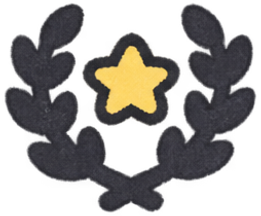
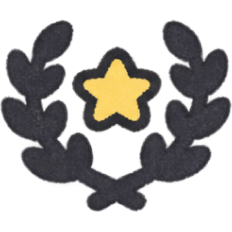
design: 홈 스티커 변경 및 히어로 화면 높이 조정

diff --git a/components/home/StickerBoard.js b/components/home/StickerBoard.js
@@ -7,9 +7,9 @@ import TextLink from "@/components/ui/TextLink";
 import SectionHeader from "./SectionHeader";
 import { homeStickerHref } from "@/lib/homeViewModel";
 
-// 스티커 한 칸(Figma 'Sticker'): 그림 88px + 아래 이름 12px. 상태는 받음(earned·milestone), 이번 주(current), 빈 자리(upcoming).
-const ITEM_CLASSES = "flex w-full flex-col items-center gap-2";
-const ICON_SIZE_CLASSES = "size-[60px] md:size-[88px]";
+// Figma Sticker: 셀 80px, 아이콘 영역 56px, 그림 52px, 라벨 간격 4px.
+const ITEM_CLASSES = "flex size-20 flex-col items-center gap-1";
+const ICON_SIZE_CLASSES = "size-14";
 
 // 스티커별 이동 경로와 화면 낭독기용 이름이다. 중커톤처럼 아직 받지 않은 스티커는 누를 수 없다.
 function getStickerLink({ kind, week, title }) {
@@ -25,20 +25,14 @@ function getStickerLink({ kind, week, title }) {
 }
 
 function StickerIcon({ sticker }) {
-  const { kind, title, image, shape, color } = sticker;
+  const { kind, image, shape, color } = sticker;
+  const isProject = sticker.type ? sticker.type === "project" : ["milestone", "upcoming"].includes(kind);
 
-  if (kind === "current") {
+  if (["current", "upcoming"].includes(kind)) {
+    const state = kind === "current" ? "current" : "empty";
     return (
       <span className={`flex items-center justify-center ${ICON_SIZE_CLASSES}`}>
-        <Image src="/images/home/sticker-current.svg" alt="" width={79.3} height={79.3} className="size-[90%]" />
-      </span>
-    );
-  }
-
-  if (kind === "upcoming") {
-    return (
-      <span className={`flex items-center justify-center ${ICON_SIZE_CLASSES}`}>
-        <Image src="/images/home/sticker-empty.svg" alt={`${title} 예정`} width={79.3} height={79.3} className="size-[90%]" />
+        <Image src={`/images/home/sticker-${state}${isProject ? "-project" : ""}.svg`} alt="" width={54.0839} height={54.0839} />
       </span>
     );
   }
@@ -46,20 +40,20 @@ function StickerIcon({ sticker }) {
   // 받은 스티커는 디자인 시스템 스티커 그림이다. 그림을 정하지 못한 스티커만 도형으로 보여 준다.
   if (image) {
     return (
-      <span className={`relative flex items-center justify-center ${ICON_SIZE_CLASSES}`}>
-        <Image src={image} alt="" fill sizes="(min-width: 768px) 82px, 56px" className="object-contain p-[4%]" />
+      <span className={`flex items-center justify-center ${ICON_SIZE_CLASSES}`}>
+        <Image src={image} alt="" width={52} height={52} className="size-[52px] object-contain" />
       </span>
     );
   }
 
-  return <ShapeCharacter shape={shape} color={color} sticker className={ICON_SIZE_CLASSES} />;
+  return <span className={`flex items-center justify-center ${ICON_SIZE_CLASSES}`}><ShapeCharacter shape={shape} color={color} sticker size={52} /></span>;
 }
 
 function Sticker({ sticker }) {
   const content = (
     <>
       <StickerIcon sticker={sticker} />
-      <span className={`text-caption leading-[18px] ${["milestone", "upcoming"].includes(sticker.kind) ? "text-yellow-700" : "text-ink-subtle"}`}>
+      <span className={`h-[18px] w-20 text-center text-caption leading-[18px] ${["milestone", "upcoming"].includes(sticker.kind) ? "text-yellow-700" : "text-ink-subtle"}`}>
         {sticker.label}
       </span>
     </>
@@ -68,7 +62,7 @@ function Sticker({ sticker }) {
   const link = getStickerLink(sticker);
 
   if (!link) {
-    return <div className={ITEM_CLASSES}>{content}</div>;
+    return <div className={ITEM_CLASSES} aria-label={`${sticker.title} 예정`}>{content}</div>;
   }
 
   return (
@@ -83,24 +77,27 @@ export default function StickerBoard({ count, stickers }) {
     <Card as="section" className="relative flex min-w-0 flex-col items-center gap-4 p-6! lg:min-h-[550px]">
       <DrawnBorder variant="sticker-board" />
       <SectionHeader
+        titleSize="lg"
         title={
           <>
-            <span className="text-[24px]">모은 스티커 <span className="text-yellow-700">{count}</span></span>
+            모은 스티커 <span className="text-yellow-700">{count}</span>
           </>
         }
         action={
-          <TextLink variant="border" size="sm" href="/my-record?tab=footprints">
+          <TextLink variant="border" href="/my-record?tab=footprints">
             사자 발자국 →
           </TextLink>
         }
       />
-      <ul className="grid w-full max-w-[618px] flex-1 grid-cols-3 content-center gap-x-2 gap-y-8 py-8 sm:grid-cols-5 sm:gap-x-3 md:gap-y-12">
-        {stickers.map((sticker) => (
-          <li key={`${sticker.kind}:${sticker.week}`}>
-            <Sticker sticker={sticker} />
-          </li>
-        ))}
-      </ul>
+      <div className="flex w-full flex-1 items-center justify-center py-8">
+        <ul className="flex w-full max-w-[544px] flex-wrap justify-center gap-x-4 gap-y-[34px] sm:gap-x-9">
+          {stickers.map((sticker) => (
+            <li key={`${sticker.kind}:${sticker.week}`}>
+              <Sticker sticker={sticker} />
+            </li>
+          ))}
+        </ul>
+      </div>
     </Card>
   );
 }

diff --git a/components/project/NewProjectForm.js b/components/project/NewProjectForm.js
@@ -42,8 +42,8 @@ export default function NewProjectForm({ titleId, onCancel, onCreate, busy = fal
   }
 
   return (
-    <form noValidate onSubmit={handleSubmit} className="new-project-form flex flex-col gap-5">
-      <div className="mb-1 flex items-center gap-3.5">
+    <form noValidate onSubmit={handleSubmit} className="new-project-form flex flex-col gap-6">
+      <div className="flex items-center gap-3.5">
         <Image src="/images/stars/star-03.png" alt="" width={44} height={44} className="shrink-0" />
         <div className="flex min-w-0 flex-col gap-0.5">
           <h2 id={titleId} className="font-display text-[24px] leading-[34px] tracking-[-0.48px]">
@@ -52,37 +52,39 @@ export default function NewProjectForm({ titleId, onCancel, onCreate, busy = fal
           <p className="text-body leading-6 text-ink-subtle">이름과 역할만 정해요. 나머지는 진행하면서 기록으로 채워요.</p>
         </div>
       </div>
-      <TextField
-        label="프로젝트 이름"
-        name="name"
-        placeholder="예) 아이디어톤"
-        required
-        error={nameError}
-        onChange={(event) => { if (event.target.value.trim()) setNameError(""); }}
-      />
-      <TextField
-        label="부제목 (선택)"
-        name="subtitle"
-        placeholder="예) 캠퍼스 중고마켓"
-      />
-      <div role="group" aria-labelledby="new-project-role" className="flex flex-col gap-2">
-        <span id="new-project-role" className="text-label leading-[21px] font-bold text-ink-subtle">
-          내 역할 (여러 개 가능)
-        </span>
-        <div className="flex flex-wrap gap-1.5">
-          {PROJECT_ROLES.map((item) => (
-            <Chip key={item} className="border-[1.5px]" selected={roles.includes(item)} onClick={() => toggleRole(item)}>
-              {item}
-            </Chip>
-          ))}
+      <div className="new-project-fields flex flex-col gap-5">
+        <TextField
+          label="프로젝트 이름"
+          name="name"
+          placeholder="예) 아이디어톤"
+          required
+          error={nameError}
+          onChange={(event) => { if (event.target.value.trim()) setNameError(""); }}
+        />
+        <TextField
+          label="부제목 (선택)"
+          name="subtitle"
+          placeholder="예) 캠퍼스 중고마켓"
+        />
+        <div role="group" aria-labelledby="new-project-role" className="flex flex-col gap-2">
+          <span id="new-project-role" className="text-label leading-[21px] font-bold text-ink-subtle">
+            내 역할 (여러 개 가능)
+          </span>
+          <div className="flex min-h-[39px] flex-wrap items-center gap-1.5">
+            {PROJECT_ROLES.map((item) => (
+              <Chip key={item} className="border-[1.5px]" selected={roles.includes(item)} onClick={() => toggleRole(item)}>
+                {item}
+              </Chip>
+            ))}
+          </div>
+          {roleError && (
+            <p role="alert" className="pt-0.5 text-label text-tint-red-ink">
+              {roleError}
+            </p>
+          )}
         </div>
-        {roleError && (
-          <p role="alert" className="pt-0.5 text-label text-tint-red-ink">
-            {roleError}
-          </p>
-        )}
       </div>
-      <div className="mt-1 flex items-center justify-between gap-3.5 pt-2">
+      <div className="flex items-center justify-between gap-3.5 pt-2">
         <TextLink variant="underline" className="font-display text-ink" onClick={onCancel}>취소</TextLink>
         <Button type="submit" className="h-[46px]! border-2! border-ink! bg-ink! px-6! text-white!">{busy ? "만드는 중…" : "만들기"}</Button>
       </div>

diff --git a/lib/homeViewModel.js b/lib/homeViewModel.js
@@ -13,7 +13,7 @@ export const HOME_HERO_CONTENT = {
 
 export function homeStickers(home) {
   // 획득 여부는 서버 응답만 사용한다. 고정 목록으로 걸러 중복 enum과 미지원 enum을 안전하게 처리한다.
-  // image: 스티커 그림(디자인 시스템 '스티커'). 주차는 8종이 돌아가며, 프로젝트는 전용 스티커다(stickerBadges.js).
+  // 일반 주차는 밝은 별 5종을 순환하고, 프로젝트는 전용 스티커다(stickerBadges.js).
   const projectStickers = PROJECT_STICKERS.filter((item) => home.stickers.projectStickers.includes(item.code))
     .map((item) => ({ ...item, image: projectBadgeImage(item.code) }));
   const projectWeeks = new Set(projectStickers.map((item) => item.week));
@@ -22,18 +22,18 @@ export function homeStickers(home) {
     return { week, kind: "earned", label: `${week}주차`, title: `${week}주차`, image: weekBadgeImage(week),
       shape: decoration?.shape ?? "circle", color: decoration?.color ?? "blue" };
   });
-  // 기존 보드 규칙을 재사용한다: 프로젝트를 우선 포함한 획득 스티커 총 10개, 주차 오름차순.
-  const stickers = selectBoardStickers([...weekStickers, ...projectStickers]);
+  const slots = [];
   if (home.stickers.showThisWeekSlot) {
-    stickers.push({ week: home.currentWeek.weekNumber, kind: "current", label: String(home.currentWeek.weekNumber) });
+    const section = FOOTPRINT_SECTIONS.find(({ startWeek, endWeek }) => home.currentWeek.weekNumber >= startWeek && home.currentWeek.weekNumber <= endWeek);
+    slots.push({ week: home.currentWeek.weekNumber, kind: "current", label: `${home.currentWeek.weekNumber}주차`, type: section?.isProject ? "project" : "retrospective" });
   }
-  // 빈 자리·예정 자리는 획득 스티커 10개 제한과 별개다.
   const nextProject = FOOTPRINT_SECTIONS.find((section) => section.isProject && section.endWeek >= home.currentWeek.weekNumber);
-  if (nextProject && !stickers.some((item) => item.week === nextProject.endWeek)) {
-    stickers.push({ week: nextProject.endWeek, kind: "upcoming", label: nextProject.label, title: nextProject.label });
+  if (nextProject && ![...weekStickers, ...projectStickers, ...slots].some((item) => item.week === nextProject.endWeek)) {
+    slots.push({ week: nextProject.endWeek, kind: "upcoming", label: nextProject.label, title: nextProject.label });
   }
-  // 동료의 HomeContent와 동일하게 빈 자리까지 합친 최종 목록을 주차순으로 배치한다.
-  return stickers.toSorted((a, b) => a.week - b.week);
+  // 이번 주·예정 자리까지 최대 10칸. 기존 프로젝트 우선 선택과 주차순 정렬은 유지한다.
+  const stickers = selectBoardStickers([...weekStickers, ...projectStickers], 10 - slots.length);
+  return [...stickers, ...slots].toSorted((a, b) => a.week - b.week);
 }
 
 export function homeStickerHref({ kind, week }) {

diff --git a/app/globals.css b/app/globals.css
@@ -138,12 +138,8 @@ body {
 
 /* 히어로 장식 배치에만 화면별 좌표를 쓴다. */
 .home-hero {
-  height: clamp(640px, calc(100svh - var(--header-height)), 920px);
-}
-
-.home-hero-background {
-  inset: 0;
-  background: var(--color-ink);
+  min-height: 640px;
+  height: calc(100dvh - var(--header-height));
 }
 
 .home-hero-copy {
@@ -182,14 +178,7 @@ body {
 
 @media (min-width: 64rem) {
   .home-hero {
-    height: clamp(520px, calc(100svh - var(--header-height)), 920px);
-  }
-  .home-hero-background {
-    background: url("/images/home/hero-background.svg") center top / 100% 100% no-repeat;
-    left: -10.3472%;
-    top: -10.0119%;
-    width: 115.2778%;
-    height: 104.8868%;
+    min-height: 520px;
   }
   .home-hero-copy {
     top: 33.6114%;
@@ -220,14 +209,14 @@ body {
 }
 
 /* 새 프로젝트 팝업에만 Figma의 필드 라벨·입력 크기를 적용한다. */
-.new-project-form > label { gap: 6px; }
-.new-project-form > label > span:first-child {
+.new-project-fields > label { gap: 6px; }
+.new-project-fields > label > span:first-child {
   font-family: var(--font-sans);
   font-weight: 700;
   line-height: 21px;
   color: var(--color-ink-subtle);
 }
-.new-project-form input { height: 56px; }
+.new-project-form input { height: 50px; }
 .new-project-form input::placeholder { color: var(--color-ink-300); }
 
 /* Figma 홈 모션: 별은 회전하지 않고 밝기와 크기만 변한다. */

diff --git a/components/home/SectionHeader.js b/components/home/SectionHeader.js
@@ -2,17 +2,17 @@ import Image from "next/image";
 import Link from "next/link";
 
 // 홈 카드의 제목(Figma '섹션 제목 · 화살표'). href를 주면 제목 전체가 링크가 되고 오른쪽에 '>' 화살표가 붙는다.
-export default function SectionHeader({ title, href, action }) {
+export default function SectionHeader({ title, href, action, chevronSize = 24, titleSize = "md" }) {
   const heading = href ? (
     <Link href={href} className="inline-flex items-center gap-1 rounded-sm focus-visible:outline-2 focus-visible:outline-offset-2 focus-visible:outline-ink">
       {title}
-      <Image src="/images/common/chevron-right-24.svg" alt="" width={24} height={24} />
+      <Image src={`/images/common/chevron-right-${chevronSize}.svg`} alt="" width={chevronSize} height={chevronSize} />
     </Link>
   ) : title;
 
   return (
     <div className="flex w-full items-center justify-between gap-4">
-      <h2 className="font-display text-title leading-8 tracking-[-0.4px] text-ink">{heading}</h2>
+      <h2 className={`font-display leading-8 tracking-[-0.4px] text-ink ${titleSize === "lg" ? "text-[24px]" : "text-title"}`}>{heading}</h2>
       {action}
     </div>
   );

diff --git a/lib/stickerBadges.test.js b/lib/stickerBadges.test.js
@@ -1,12 +1,12 @@
 import test from "node:test";
 import assert from "node:assert/strict";
-import { PROJECT_BADGES, WEEK_BADGES, projectBadgeImage, weekBadgeImage } from "./stickerBadges.js";
+import { PROJECT_BADGES, projectBadgeImage, weekBadgeImage } from "./stickerBadges.js";
 
-test("주차 스티커는 8종이 주차 순서대로 돌아가며 나온다", () => {
-  assert.equal(weekBadgeImage(1), `/images/stickers/${WEEK_BADGES[0]}.png`);
-  assert.equal(weekBadgeImage(8), `/images/stickers/${WEEK_BADGES[7]}.png`);
-  assert.equal(weekBadgeImage(9), weekBadgeImage(1));
-  assert.equal(weekBadgeImage(35), `/images/stickers/${WEEK_BADGES[2]}.png`);
+test("일반 주차는 별 5종만 순환하며 같은 주차의 모양은 유지된다", () => {
+  const images = ["star-five", "star-four", "star-four-rounded", "star-eight", "star-eight-rounded"]
+    .map((name) => `/images/stickers/${name}.png`);
+  assert.deepEqual(Array.from({ length: 10 }, (_, index) => weekBadgeImage(index + 1)), [...images, ...images]);
+  assert.equal(weekBadgeImage(35), images[4]);
 });
 
 test("프로젝트 회고 주는 전용 스티커를 쓰고, 모르는 프로젝트는 그림이 없다", () => {

diff --git a/components/home/MatchingPromoCard.js b/components/home/MatchingPromoCard.js
@@ -4,9 +4,9 @@ import DrawnBorder from "@/components/ui/DrawnBorder";
 
 export default function MatchingPromoCard() {
   return (
-    <Link href="/matching" className="relative flex min-h-[220px] flex-col items-start justify-end rounded-[28px] bg-[#fdd87b] px-[22px] pb-[22px] text-ink focus-visible:outline-2 focus-visible:outline-offset-2 focus-visible:outline-ink">
+    <Link href="/matching" className="relative flex min-h-[220px] flex-col items-start justify-end rounded-[28px] bg-[#fdd87b] px-6 pb-6 text-ink focus-visible:outline-2 focus-visible:outline-offset-2 focus-visible:outline-ink">
       <DrawnBorder variant="matching-card" />
-      <span className="group absolute top-3 right-2 h-[98px] w-[159px]">
+      <span className="group absolute top-3.5 right-4 h-[98px] w-[159px]">
         <Image src="/images/home/matching-eyes.png" alt="" width={139} height={78} className="home-matching-icon absolute top-2.5 left-2.5 group-hover:opacity-0" />
         <Image src="/images/home/matching-arrow.png" alt="" width={46} height={69} className="home-matching-icon absolute top-[19px] left-[88px] opacity-0 group-hover:opacity-100" />
       </span>

diff --git a/lib/stickerBadges.js b/lib/stickerBadges.js
@@ -1,11 +1,9 @@
-// 회고를 완료한 주에 붙는 스티커 그림(디자인 시스템 '스티커' 8종)을 고른다.
-// 명세 H-04·A-03: 주차마다 다른 일러스트 스티커가 주차 순서대로 돌아가며 나오고, 프로젝트 회고 주는 전용 스티커를 쓴다.
+// 일반 주차는 밝은 별 5종을 순환하고, 프로젝트 회고 주는 전용 스티커를 사용한다.
 // 홈 스티커 보드와 나의 사자록 사자 발자국이 같은 규칙을 쓰도록 여기에 둔다.
 
 const STICKER_DIR = "/images/stickers";
 
-// 주차 순서대로 돌아가며 쓰는 8종이다. 1주차가 첫 번째 스티커다.
-export const WEEK_BADGES = ["certificate", "medal", "trophy", "laurel", "rosette", "ribbon", "star-trophy", "medal-striped"];
+const WEEK_BADGES = ["star-five", "star-four", "star-four-rounded", "star-eight", "star-eight-rounded"];
 
 // 프로젝트 회고 주의 전용 스티커(A-03): 아이디어톤 트로피, 해커톤 월계관.
 // 중커톤(메달)은 서버의 획득 enum이 아직 계약에 없어(lib/projectStickers.js) 정해지면 추가한다.

diff --git a/components/project/NewProjectModal.js b/components/project/NewProjectModal.js
@@ -28,7 +28,7 @@ export default function NewProjectModal({ open, onClose, onCreated }) {
   }
 
   return (
-    <Modal open={open} size="project" className="rounded-[32px]! backdrop:bg-[#1f2433]/40!" contentClassName="px-6 pt-9 pb-8 sm:px-9" onClose={busy ? () => {} : onClose} onCancel={(event) => { if (busy) event.preventDefault(); }} aria-labelledby={TITLE_ID}>
+    <Modal open={open} size="project" className="rounded-[32px]! backdrop:bg-[#1f2433]/40!" contentClassName="px-[26px] pt-[38px] pb-[34px] sm:px-[38px]" onClose={busy ? () => {} : onClose} onCancel={(event) => { if (busy) event.preventDefault(); }} aria-labelledby={TITLE_ID}>
       <DrawnBorder variant="new-project-dialog" />
       <fieldset disabled={busy} className="min-w-0">
         <NewProjectForm titleId={TITLE_ID} onCancel={onClose} onCreate={createProject} busy={busy} />

diff --git a/components/layout/Header.js b/components/layout/Header.js
@@ -54,7 +54,7 @@ export default function Header() {
   // 홈 히어로가 이 높이를 빼서 첫 화면을 채우고, 스크롤 위치도 이 높이만큼 띄운다(globals.css의 --header-height).
   // 줄 수나 높이를 바꾸면 --header-height도 함께 고친다.
   return (
-    <header className="sticky top-0 z-40 w-full border-b border-transparent bg-canvas/80 backdrop-blur-[8px]">
+    <header className="sticky top-0 z-40 min-h-[var(--header-height)] w-full border-b border-transparent bg-canvas/80 backdrop-blur-[8px]">
       <div className="mx-auto flex w-full max-w-[1120px] flex-wrap items-center justify-between gap-x-6 gap-y-2 p-4">
         <Link href="/" aria-label="사자록 홈" className="shrink-0">
           <Image src="/images/brand/logo.png" alt="" width={117} height={42} priority />

diff --git a/components/home/HomeHero.js b/components/home/HomeHero.js
@@ -36,8 +36,7 @@ export default function HomeHero({ userName, week, weekStatus }) {
   const { title, cta } = HOME_HERO_CONTENT[weekStatus];
 
   return (
-    <section className="home-hero relative isolate w-full overflow-hidden bg-canvas">
-      <div aria-hidden="true" className="home-hero-background absolute -z-10" />
+    <section className="home-hero relative isolate w-full overflow-hidden bg-ink">
       <div aria-hidden="true" className="home-hero-stars pointer-events-none absolute inset-0">
         {STARS.map(({ image, x, y, width, height }, index) => (
           <Image key={index} src={`/images/stars/star-${image}.png`} alt="" width={width} height={height}
